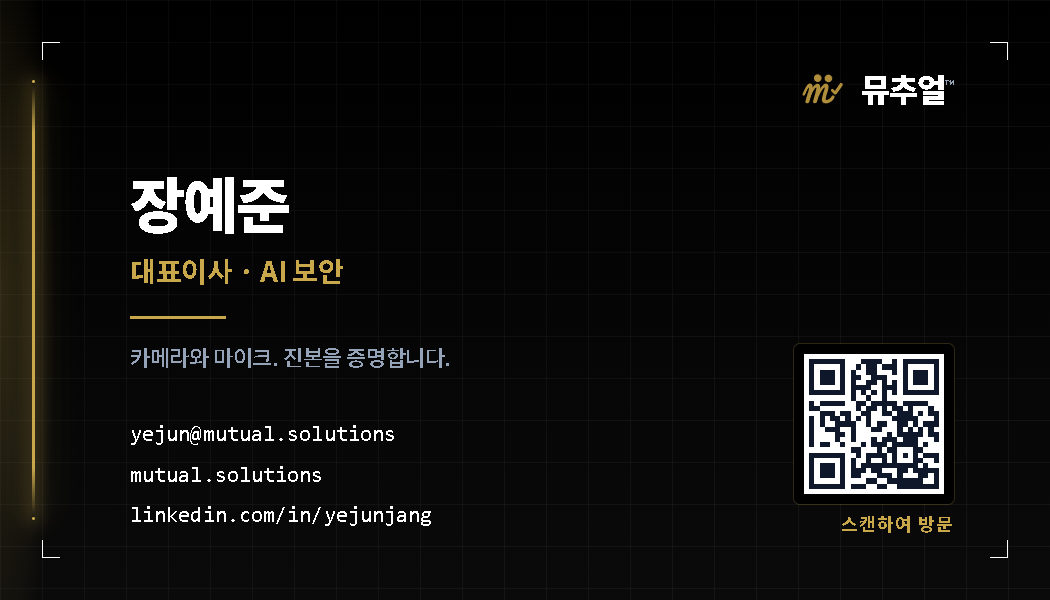
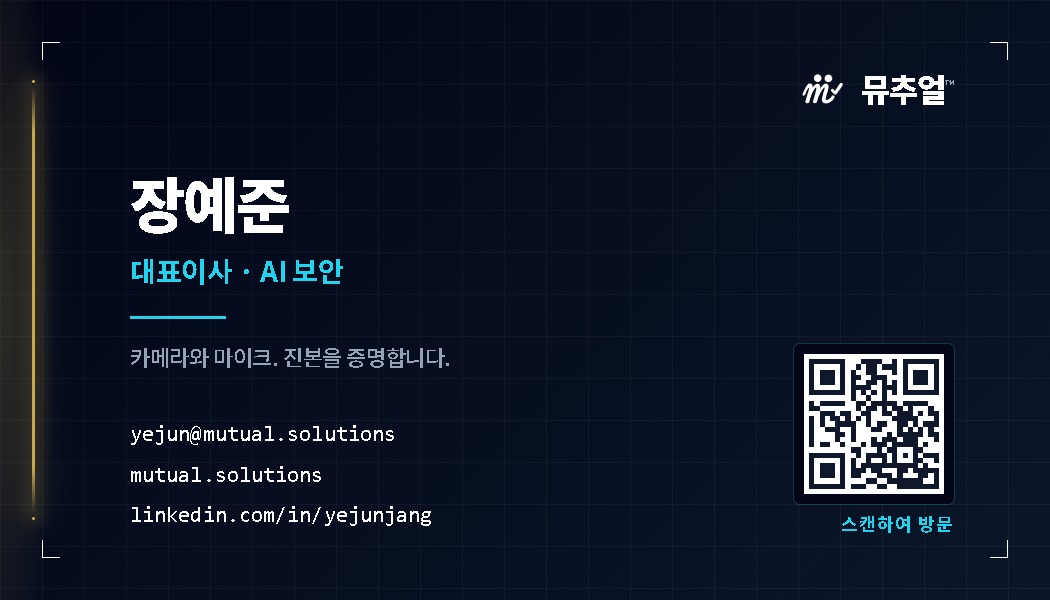
Lab Edge fek1/capture · blend more mutual.solutions cyan into FEK-1
FEK-1 was pure forensic gold on black. User asked for more of the
mutual.solutions color. Re-tuned the FEK-1 palette to lean mutual:

- bg:        #020617 → #0a1628 navy gradient (was pure black)
- accent:    #c9a84c gold → #22d3ee mutual cyan
- accentSoft #8c7332 dark gold → #4a8b9c mutual teal
- logoFile:  logo-amber → logo-white

Forensic gold (#c9a84c) is preserved ONLY for the halo edge — it stays
the FEK-1 visual signature. Everything else (titles, dividers, QR
border, badges, "SCAN TO VISIT" / "스캔하여 방문" labels, focus dots) now
uses mutual cyan/teal.

Net effect: cards read as mutual.solutions brand with a forensic
gold edge accent.

diff --git a/.canva-build/v-tech-edge-capture-back-yejun.html b/.canva-build/v-tech-edge-capture-back-yejun.html
@@ -1,10 +1,10 @@
 <!DOCTYPE html><html><head><meta charset="utf-8">
 <style>
 *{margin:0;padding:0;box-sizing:border-box}
-html,body{width:1050px;height:600px;background:#000000;font-family:'Inter','Segoe UI','SF Pro Display','Helvetica Neue',Helvetica,Arial,'Malgun Gothic','Apple SD Gothic Neo',sans-serif;color:#fff;overflow:hidden;-webkit-font-smoothing:antialiased}
-.card{position:relative;width:1050px;height:600px;background:linear-gradient(180deg,#000000 0%,#0a0a0a 100%);overflow:hidden}
+html,body{width:1050px;height:600px;background:#020617;font-family:'Inter','Segoe UI','SF Pro Display','Helvetica Neue',Helvetica,Arial,'Malgun Gothic','Apple SD Gothic Neo',sans-serif;color:#fff;overflow:hidden;-webkit-font-smoothing:antialiased}
+.card{position:relative;width:1050px;height:600px;background:linear-gradient(135deg,#020617 0%,#0a1628 100%);overflow:hidden}
 .grid{position:absolute;inset:0;background-image:linear-gradient(to right, rgba(255,255,255,0.05) 1px, transparent 1px), linear-gradient(to bottom, rgba(255,255,255,0.05) 1px, transparent 1px);background-size:42px 42px;mask-image:linear-gradient(135deg, rgba(0,0,0,0.6), rgba(0,0,0,0.95));-webkit-mask-image:linear-gradient(135deg, rgba(0,0,0,0.6), rgba(0,0,0,0.95))}
-.tick{position:absolute;width:18px;height:18px;border-color:#8c7332}
+.tick{position:absolute;width:18px;height:18px;border-color:#4a8b9c}
 .tl{top:42px;left:42px;border-top:1.5px solid;border-left:1.5px solid}
 .tr{top:42px;right:42px;border-top:1.5px solid;border-right:1.5px solid}
 .bl{bottom:42px;left:42px;border-bottom:1.5px solid;border-left:1.5px solid}
@@ -24,15 +24,15 @@ html,body{width:1050px;height:600px;background:#000000;font-family:'Inter','Sego
 
   <!-- Korean wordmark -->
   <div style="position:absolute;top:64px;right:96px;display:flex;align-items:center;gap:14px;z-index:2">
-    <img src="logo-amber.svg" style="width:48px;height:48px;object-fit:contain">
+    <img src="logo-white.svg" style="width:48px;height:48px;object-fit:contain">
     <div class="ko" style="font-weight:800;font-size:32px;letter-spacing:-1px;color:#fff">뮤추얼<span style="font-size:13px;vertical-align:super;color:#94a3b8;font-weight:500">™</span></div>
   </div>
 
   <!-- name block (Korean — mirrors the English front layout) -->
   <div style="position:absolute;top:172px;left:130px;max-width:600px;z-index:2">
     <div class="ko" style="font-weight:800;font-size:60px;letter-spacing:-1.8px;color:#fff;line-height:1">장예준</div>
-    <div class="ko" style="margin-top:18px;font-weight:600;font-size:28px;color:#c9a84c;letter-spacing:-0.4px">대표이사 · AI 보안</div>
-    <div style="margin-top:26px;width:96px;height:3px;background:#c9a84c"></div>
+    <div class="ko" style="margin-top:18px;font-weight:600;font-size:28px;color:#22d3ee;letter-spacing:-0.4px">대표이사 · AI 보안</div>
+    <div style="margin-top:26px;width:96px;height:3px;background:#22d3ee"></div>
     <div class="ko" style="margin-top:22px;font-weight:500;font-size:22px;color:#94a3b8;letter-spacing:-0.4px;line-height:1.4">카메라와 마이크. 진본을 증명합니다.</div>
   </div>
 
@@ -44,6 +44,6 @@ html,body{width:1050px;height:600px;background:#000000;font-family:'Inter','Sego
   </div>
 
   <!-- QR + Korean label -->
-  <img src="qr-yejun.svg" style="position:absolute;right:96px;bottom:96px;width:160px;height:160px;background:#000000;padding:10px;border-radius:6px;box-shadow:0 0 0 1px #c9a84c33;z-index:2">
-  <div class="ko" style="position:absolute;right:96px;bottom:64px;font-size:18px;color:#c9a84c;letter-spacing:1px;text-align:right;width:160px;font-weight:600;z-index:2">스캔하여 방문</div>
+  <img src="qr-yejun.svg" style="position:absolute;right:96px;bottom:96px;width:160px;height:160px;background:#020617;padding:10px;border-radius:6px;box-shadow:0 0 0 1px #22d3ee33;z-index:2">
+  <div class="ko" style="position:absolute;right:96px;bottom:64px;font-size:18px;color:#22d3ee;letter-spacing:1px;text-align:right;width:160px;font-weight:600;z-index:2">스캔하여 방문</div>
 </div></body></html>

diff --git a/.canva-build/v-tech-edge-fek1-back-yejun.html b/.canva-build/v-tech-edge-fek1-back-yejun.html
@@ -1,10 +1,10 @@
 <!DOCTYPE html><html><head><meta charset="utf-8">
 <style>
 *{margin:0;padding:0;box-sizing:border-box}
-html,body{width:1050px;height:600px;background:#000000;font-family:'Inter','Segoe UI','SF Pro Display','Helvetica Neue',Helvetica,Arial,'Malgun Gothic','Apple SD Gothic Neo',sans-serif;color:#fff;overflow:hidden;-webkit-font-smoothing:antialiased}
-.card{position:relative;width:1050px;height:600px;background:linear-gradient(180deg,#000000 0%,#0a0a0a 100%);overflow:hidden}
+html,body{width:1050px;height:600px;background:#020617;font-family:'Inter','Segoe UI','SF Pro Display','Helvetica Neue',Helvetica,Arial,'Malgun Gothic','Apple SD Gothic Neo',sans-serif;color:#fff;overflow:hidden;-webkit-font-smoothing:antialiased}
+.card{position:relative;width:1050px;height:600px;background:linear-gradient(135deg,#020617 0%,#0a1628 100%);overflow:hidden}
 .grid{position:absolute;inset:0;background-image:linear-gradient(to right, rgba(255,255,255,0.05) 1px, transparent 1px), linear-gradient(to bottom, rgba(255,255,255,0.05) 1px, transparent 1px);background-size:42px 42px;mask-image:linear-gradient(135deg, rgba(0,0,0,0.6), rgba(0,0,0,0.95));-webkit-mask-image:linear-gradient(135deg, rgba(0,0,0,0.6), rgba(0,0,0,0.95))}
-.tick{position:absolute;width:18px;height:18px;border-color:#8c7332}
+.tick{position:absolute;width:18px;height:18px;border-color:#4a8b9c}
 .tl{top:42px;left:42px;border-top:1.5px solid;border-left:1.5px solid}
 .tr{top:42px;right:42px;border-top:1.5px solid;border-right:1.5px solid}
 .bl{bottom:42px;left:42px;border-bottom:1.5px solid;border-left:1.5px solid}
@@ -24,15 +24,15 @@ html,body{width:1050px;height:600px;background:#000000;font-family:'Inter','Sego
 
   <!-- Korean wordmark -->
   <div style="position:absolute;top:64px;right:96px;display:flex;align-items:center;gap:14px;z-index:2">
-    <img src="logo-amber.svg" style="width:48px;height:48px;object-fit:contain">
+    <img src="logo-white.svg" style="width:48px;height:48px;object-fit:contain">
     <div class="ko" style="font-weight:800;font-size:32px;letter-spacing:-1px;color:#fff">뮤추얼<span style="font-size:13px;vertical-align:super;color:#94a3b8;font-weight:500">™</span></div>
   </div>
 
   <!-- name block (Korean — mirrors the English front layout) -->
   <div style="position:absolute;top:172px;left:130px;max-width:600px;z-index:2">
     <div class="ko" style="font-weight:800;font-size:60px;letter-spacing:-1.8px;color:#fff;line-height:1">장예준</div>
-    <div class="ko" style="margin-top:18px;font-weight:600;font-size:28px;color:#c9a84c;letter-spacing:-0.4px">대표이사 · AI 보안</div>
-    <div style="margin-top:26px;width:96px;height:3px;background:#c9a84c"></div>
+    <div class="ko" style="margin-top:18px;font-weight:600;font-size:28px;color:#22d3ee;letter-spacing:-0.4px">대표이사 · AI 보안</div>
+    <div style="margin-top:26px;width:96px;height:3px;background:#22d3ee"></div>
     <div class="ko" style="margin-top:22px;font-weight:500;font-size:22px;color:#94a3b8;letter-spacing:-0.4px;line-height:1.4">카메라와 마이크. 진본을 증명합니다.</div>
   </div>
 
@@ -44,6 +44,6 @@ html,body{width:1050px;height:600px;background:#000000;font-family:'Inter','Sego
   </div>
 
   <!-- QR + Korean label -->
-  <img src="qr-yejun.svg" style="position:absolute;right:96px;bottom:96px;width:160px;height:160px;background:#000000;padding:10px;border-radius:6px;box-shadow:0 0 0 1px #c9a84c33;z-index:2">
-  <div class="ko" style="position:absolute;right:96px;bottom:64px;font-size:18px;color:#c9a84c;letter-spacing:1px;text-align:right;width:160px;font-weight:600;z-index:2">스캔하여 방문</div>
+  <img src="qr-yejun.svg" style="position:absolute;right:96px;bottom:96px;width:160px;height:160px;background:#020617;padding:10px;border-radius:6px;box-shadow:0 0 0 1px #22d3ee33;z-index:2">
+  <div class="ko" style="position:absolute;right:96px;bottom:64px;font-size:18px;color:#22d3ee;letter-spacing:1px;text-align:right;width:160px;font-weight:600;z-index:2">스캔하여 방문</div>
 </div></body></html>

diff --git a/.canva-build/v-tech-edge-capture-front-yejun.html b/.canva-build/v-tech-edge-capture-front-yejun.html
@@ -1,10 +1,10 @@
 <!DOCTYPE html><html><head><meta charset="utf-8">
 <style>
 *{margin:0;padding:0;box-sizing:border-box}
-html,body{width:1050px;height:600px;background:#000000;font-family:'Inter','Segoe UI','SF Pro Display','Helvetica Neue',Helvetica,Arial,'Malgun Gothic','Apple SD Gothic Neo',sans-serif;color:#fff;overflow:hidden;-webkit-font-smoothing:antialiased}
-.card{position:relative;width:1050px;height:600px;background:linear-gradient(180deg,#000000 0%,#0a0a0a 100%);overflow:hidden}
+html,body{width:1050px;height:600px;background:#020617;font-family:'Inter','Segoe UI','SF Pro Display','Helvetica Neue',Helvetica,Arial,'Malgun Gothic','Apple SD Gothic Neo',sans-serif;color:#fff;overflow:hidden;-webkit-font-smoothing:antialiased}
+.card{position:relative;width:1050px;height:600px;background:linear-gradient(135deg,#020617 0%,#0a1628 100%);overflow:hidden}
 .grid{position:absolute;inset:0;background-image:linear-gradient(to right, rgba(255,255,255,0.05) 1px, transparent 1px), linear-gradient(to bottom, rgba(255,255,255,0.05) 1px, transparent 1px);background-size:42px 42px;mask-image:linear-gradient(135deg, rgba(0,0,0,0.6), rgba(0,0,0,0.95));-webkit-mask-image:linear-gradient(135deg, rgba(0,0,0,0.6), rgba(0,0,0,0.95))}
-.tick{position:absolute;width:18px;height:18px;border-color:#8c7332}
+.tick{position:absolute;width:18px;height:18px;border-color:#4a8b9c}
 .tl{top:42px;left:42px;border-top:1.5px solid;border-left:1.5px solid}
 .tr{top:42px;right:42px;border-top:1.5px solid;border-right:1.5px solid}
 .bl{bottom:42px;left:42px;border-bottom:1.5px solid;border-left:1.5px solid}
@@ -24,15 +24,15 @@ html,body{width:1050px;height:600px;background:#000000;font-family:'Inter','Sego
 
   <!-- mutual wordmark (top-right) -->
   <div style="position:absolute;top:64px;right:96px;display:flex;align-items:center;gap:14px;z-index:2">
-    <img src="logo-amber.svg" style="width:48px;height:48px;object-fit:contain">
+    <img src="logo-white.svg" style="width:48px;height:48px;object-fit:contain">
     <div style="font-weight:800;font-size:32px;letter-spacing:-0.8px;color:#fff">mutual<span style="font-size:13px;vertical-align:super;color:#94a3b8;font-weight:500">™</span></div>
   </div>
 
   <!-- name block (English) -->
   <div style="position:absolute;top:172px;left:130px;max-width:600px;z-index:2">
     <div style="font-weight:800;font-size:60px;letter-spacing:-1.8px;color:#fff;line-height:1">Yejun Jang</div>
-    <div style="margin-top:18px;font-weight:600;font-size:28px;color:#c9a84c;letter-spacing:-0.3px">CEO · AI & Security</div>
-    <div style="margin-top:26px;width:96px;height:3px;background:#c9a84c"></div>
+    <div style="margin-top:18px;font-weight:600;font-size:28px;color:#22d3ee;letter-spacing:-0.3px">CEO · AI & Security</div>
+    <div style="margin-top:26px;width:96px;height:3px;background:#22d3ee"></div>
     <div style="margin-top:22px;font-weight:500;font-size:22px;color:#94a3b8;letter-spacing:-0.2px;line-height:1.4;font-family:'Playfair Display','Georgia','Times New Roman',serif;">Cameras and mics. Proven real.</div>
   </div>
 
@@ -44,7 +44,7 @@ html,body{width:1050px;height:600px;background:#000000;font-family:'Inter','Sego
   </div>
 
   <!-- QR + English label -->
-  <img src="qr-yejun.svg" style="position:absolute;right:96px;bottom:96px;width:160px;height:160px;background:#000000;padding:10px;border-radius:6px;box-shadow:0 0 0 1px #c9a84c33;z-index:2">
-  <div class="mono" style="position:absolute;right:96px;bottom:64px;font-size:18px;color:#c9a84c;letter-spacing:1px;text-align:right;width:160px;font-weight:600;z-index:2">SCAN TO VISIT</div>
+  <img src="qr-yejun.svg" style="position:absolute;right:96px;bottom:96px;width:160px;height:160px;background:#020617;padding:10px;border-radius:6px;box-shadow:0 0 0 1px #22d3ee33;z-index:2">
+  <div class="mono" style="position:absolute;right:96px;bottom:64px;font-size:18px;color:#22d3ee;letter-spacing:1px;text-align:right;width:160px;font-weight:600;z-index:2">SCAN TO VISIT</div>
   
 </div></body></html>

diff --git a/.canva-build/v-tech-edge-fek1-front-yejun.html b/.canva-build/v-tech-edge-fek1-front-yejun.html
@@ -1,10 +1,10 @@
 <!DOCTYPE html><html><head><meta charset="utf-8">
 <style>
 *{margin:0;padding:0;box-sizing:border-box}
-html,body{width:1050px;height:600px;background:#000000;font-family:'Inter','Segoe UI','SF Pro Display','Helvetica Neue',Helvetica,Arial,'Malgun Gothic','Apple SD Gothic Neo',sans-serif;color:#fff;overflow:hidden;-webkit-font-smoothing:antialiased}
-.card{position:relative;width:1050px;height:600px;background:linear-gradient(180deg,#000000 0%,#0a0a0a 100%);overflow:hidden}
+html,body{width:1050px;height:600px;background:#020617;font-family:'Inter','Segoe UI','SF Pro Display','Helvetica Neue',Helvetica,Arial,'Malgun Gothic','Apple SD Gothic Neo',sans-serif;color:#fff;overflow:hidden;-webkit-font-smoothing:antialiased}
+.card{position:relative;width:1050px;height:600px;background:linear-gradient(135deg,#020617 0%,#0a1628 100%);overflow:hidden}
 .grid{position:absolute;inset:0;background-image:linear-gradient(to right, rgba(255,255,255,0.05) 1px, transparent 1px), linear-gradient(to bottom, rgba(255,255,255,0.05) 1px, transparent 1px);background-size:42px 42px;mask-image:linear-gradient(135deg, rgba(0,0,0,0.6), rgba(0,0,0,0.95));-webkit-mask-image:linear-gradient(135deg, rgba(0,0,0,0.6), rgba(0,0,0,0.95))}
-.tick{position:absolute;width:18px;height:18px;border-color:#8c7332}
+.tick{position:absolute;width:18px;height:18px;border-color:#4a8b9c}
 .tl{top:42px;left:42px;border-top:1.5px solid;border-left:1.5px solid}
 .tr{top:42px;right:42px;border-top:1.5px solid;border-right:1.5px solid}
 .bl{bottom:42px;left:42px;border-bottom:1.5px solid;border-left:1.5px solid}
@@ -24,15 +24,15 @@ html,body{width:1050px;height:600px;background:#000000;font-family:'Inter','Sego
 
   <!-- mutual wordmark (top-right) -->
   <div style="position:absolute;top:64px;right:96px;display:flex;align-items:center;gap:14px;z-index:2">
-    <img src="logo-amber.svg" style="width:48px;height:48px;object-fit:contain">
+    <img src="logo-white.svg" style="width:48px;height:48px;object-fit:contain">
     <div style="font-weight:800;font-size:32px;letter-spacing:-0.8px;color:#fff">mutual<span style="font-size:13px;vertical-align:super;color:#94a3b8;font-weight:500">™</span></div>
   </div>
 
   <!-- name block (English) -->
   <div style="position:absolute;top:172px;left:130px;max-width:600px;z-index:2">
     <div style="font-weight:800;font-size:60px;letter-spacing:-1.8px;color:#fff;line-height:1">Yejun Jang</div>
-    <div style="margin-top:18px;font-weight:600;font-size:28px;color:#c9a84c;letter-spacing:-0.3px">CEO · AI & Security</div>
-    <div style="margin-top:26px;width:96px;height:3px;background:#c9a84c"></div>
+    <div style="margin-top:18px;font-weight:600;font-size:28px;color:#22d3ee;letter-spacing:-0.3px">CEO · AI & Security</div>
+    <div style="margin-top:26px;width:96px;height:3px;background:#22d3ee"></div>
     <div style="margin-top:22px;font-weight:500;font-size:22px;color:#94a3b8;letter-spacing:-0.2px;line-height:1.4;font-family:'Playfair Display','Georgia','Times New Roman',serif;">Cameras and mics. Proven real.</div>
   </div>
 
@@ -44,7 +44,7 @@ html,body{width:1050px;height:600px;background:#000000;font-family:'Inter','Sego
   </div>
 
   <!-- QR + English label -->
-  <img src="qr-yejun.svg" style="position:absolute;right:96px;bottom:96px;width:160px;height:160px;background:#000000;padding:10px;border-radius:6px;box-shadow:0 0 0 1px #c9a84c33;z-index:2">
-  <div class="mono" style="position:absolute;right:96px;bottom:64px;font-size:18px;color:#c9a84c;letter-spacing:1px;text-align:right;width:160px;font-weight:600;z-index:2">SCAN TO VISIT</div>
+  <img src="qr-yejun.svg" style="position:absolute;right:96px;bottom:96px;width:160px;height:160px;background:#020617;padding:10px;border-radius:6px;box-shadow:0 0 0 1px #22d3ee33;z-index:2">
+  <div class="mono" style="position:absolute;right:96px;bottom:64px;font-size:18px;color:#22d3ee;letter-spacing:1px;text-align:right;width:160px;font-weight:600;z-index:2">SCAN TO VISIT</div>
   
 </div></body></html>

diff --git a/.canva-build/v-tech-edge-capture-back-alex.html b/.canva-build/v-tech-edge-capture-back-alex.html
@@ -1,10 +1,10 @@
 <!DOCTYPE html><html><head><meta charset="utf-8">
 <style>
 *{margin:0;padding:0;box-sizing:border-box}
-html,body{width:1050px;height:600px;background:#000000;font-family:'Inter','Segoe UI','SF Pro Display','Helvetica Neue',Helvetica,Arial,'Malgun Gothic','Apple SD Gothic Neo',sans-serif;color:#fff;overflow:hidden;-webkit-font-smoothing:antialiased}
-.card{position:relative;width:1050px;height:600px;background:linear-gradient(180deg,#000000 0%,#0a0a0a 100%);overflow:hidden}
+html,body{width:1050px;height:600px;background:#020617;font-family:'Inter','Segoe UI','SF Pro Display','Helvetica Neue',Helvetica,Arial,'Malgun Gothic','Apple SD Gothic Neo',sans-serif;color:#fff;overflow:hidden;-webkit-font-smoothing:antialiased}
+.card{position:relative;width:1050px;height:600px;background:linear-gradient(135deg,#020617 0%,#0a1628 100%);overflow:hidden}
 .grid{position:absolute;inset:0;background-image:linear-gradient(to right, rgba(255,255,255,0.05) 1px, transparent 1px), linear-gradient(to bottom, rgba(255,255,255,0.05) 1px, transparent 1px);background-size:42px 42px;mask-image:linear-gradient(135deg, rgba(0,0,0,0.6), rgba(0,0,0,0.95));-webkit-mask-image:linear-gradient(135deg, rgba(0,0,0,0.6), rgba(0,0,0,0.95))}
-.tick{position:absolute;width:18px;height:18px;border-color:#8c7332}
+.tick{position:absolute;width:18px;height:18px;border-color:#4a8b9c}
 .tl{top:42px;left:42px;border-top:1.5px solid;border-left:1.5px solid}
 .tr{top:42px;right:42px;border-top:1.5px solid;border-right:1.5px solid}
 .bl{bottom:42px;left:42px;border-bottom:1.5px solid;border-left:1.5px solid}
@@ -31,8 +31,8 @@ html,body{width:1050px;height:600px;background:#000000;font-family:'Inter','Sego
   <!-- name block (Korean — mirrors the English front layout) -->
   <div style="position:absolute;top:172px;left:130px;max-width:600px;z-index:2">
     <div class="ko" style="font-weight:800;font-size:60px;letter-spacing:-1.8px;color:#fff;line-height:1">박지훈</div>
-    <div class="ko" style="margin-top:18px;font-weight:600;font-size:28px;color:#c9a84c;letter-spacing:-0.4px">최고기술책임자 · 하드웨어</div>
-    <div style="margin-top:26px;width:96px;height:3px;background:#c9a84c"></div>
+    <div class="ko" style="margin-top:18px;font-weight:600;font-size:28px;color:#22d3ee;letter-spacing:-0.4px">최고기술책임자 · 하드웨어</div>
+    <div style="margin-top:26px;width:96px;height:3px;background:#22d3ee"></div>
     <div class="ko" style="margin-top:22px;font-weight:500;font-size:22px;color:#94a3b8;letter-spacing:-0.4px;line-height:1.4">카메라와 마이크. 진본을 증명합니다.</div>
   </div>
 
@@ -44,6 +44,6 @@ html,body{width:1050px;height:600px;background:#000000;font-family:'Inter','Sego
   </div>
 
   <!-- QR + Korean label -->
-  <img src="qr-alex.svg" style="position:absolute;right:96px;bottom:96px;width:160px;height:160px;background:#000000;padding:10px;border-radius:6px;box-shadow:0 0 0 1px #c9a84c33;z-index:2">
-  <div class="ko" style="position:absolute;right:96px;bottom:64px;font-size:18px;color:#c9a84c;letter-spacing:1px;text-align:right;width:160px;font-weight:600;z-index:2">스캔하여 방문</div>
+  <img src="qr-alex.svg" style="position:absolute;right:96px;bottom:96px;width:160px;height:160px;background:#020617;padding:10px;border-radius:6px;box-shadow:0 0 0 1px #22d3ee33;z-index:2">
+  <div class="ko" style="position:absolute;right:96px;bottom:64px;font-size:18px;color:#22d3ee;letter-spacing:1px;text-align:right;width:160px;font-weight:600;z-index:2">스캔하여 방문</div>
 </div></body></html>

diff --git a/.canva-build/v-tech-edge-fek1-back-alex.html b/.canva-build/v-tech-edge-fek1-back-alex.html
@@ -1,10 +1,10 @@
 <!DOCTYPE html><html><head><meta charset="utf-8">
 <style>
 *{margin:0;padding:0;box-sizing:border-box}
-html,body{width:1050px;height:600px;background:#000000;font-family:'Inter','Segoe UI','SF Pro Display','Helvetica Neue',Helvetica,Arial,'Malgun Gothic','Apple SD Gothic Neo',sans-serif;color:#fff;overflow:hidden;-webkit-font-smoothing:antialiased}
-.card{position:relative;width:1050px;height:600px;background:linear-gradient(180deg,#000000 0%,#0a0a0a 100%);overflow:hidden}
+html,body{width:1050px;height:600px;background:#020617;font-family:'Inter','Segoe UI','SF Pro Display','Helvetica Neue',Helvetica,Arial,'Malgun Gothic','Apple SD Gothic Neo',sans-serif;color:#fff;overflow:hidden;-webkit-font-smoothing:antialiased}
+.card{position:relative;width:1050px;height:600px;background:linear-gradient(135deg,#020617 0%,#0a1628 100%);overflow:hidden}
 .grid{position:absolute;inset:0;background-image:linear-gradient(to right, rgba(255,255,255,0.05) 1px, transparent 1px), linear-gradient(to bottom, rgba(255,255,255,0.05) 1px, transparent 1px);background-size:42px 42px;mask-image:linear-gradient(135deg, rgba(0,0,0,0.6), rgba(0,0,0,0.95));-webkit-mask-image:linear-gradient(135deg, rgba(0,0,0,0.6), rgba(0,0,0,0.95))}
-.tick{position:absolute;width:18px;height:18px;border-color:#8c7332}
+.tick{position:absolute;width:18px;height:18px;border-color:#4a8b9c}
 .tl{top:42px;left:42px;border-top:1.5px solid;border-left:1.5px solid}
 .tr{top:42px;right:42px;border-top:1.5px solid;border-right:1.5px solid}
 .bl{bottom:42px;left:42px;border-bottom:1.5px solid;border-left:1.5px solid}
@@ -31,8 +31,8 @@ html,body{width:1050px;height:600px;background:#000000;font-family:'Inter','Sego
   <!-- name block (Korean — mirrors the English front layout) -->
   <div style="position:absolute;top:172px;left:130px;max-width:600px;z-index:2">
     <div class="ko" style="font-weight:800;font-size:60px;letter-spacing:-1.8px;color:#fff;line-height:1">박지훈</div>
-    <div class="ko" style="margin-top:18px;font-weight:600;font-size:28px;color:#c9a84c;letter-spacing:-0.4px">최고기술책임자 · 하드웨어</div>
-    <div style="margin-top:26px;width:96px;height:3px;background:#c9a84c"></div>
+    <div class="ko" style="margin-top:18px;font-weight:600;font-size:28px;color:#22d3ee;letter-spacing:-0.4px">최고기술책임자 · 하드웨어</div>
+    <div style="margin-top:26px;width:96px;height:3px;background:#22d3ee"></div>
     <div class="ko" style="margin-top:22px;font-weight:500;font-size:22px;color:#94a3b8;letter-spacing:-0.4px;line-height:1.4">카메라와 마이크. 진본을 증명합니다.</div>
   </div>
 
@@ -44,6 +44,6 @@ html,body{width:1050px;height:600px;background:#000000;font-family:'Inter','Sego
   </div>
 
   <!-- QR + Korean label -->
-  <img src="qr-alex.svg" style="position:absolute;right:96px;bottom:96px;width:160px;height:160px;background:#000000;padding:10px;border-radius:6px;box-shadow:0 0 0 1px #c9a84c33;z-index:2">
-  <div class="ko" style="position:absolute;right:96px;bottom:64px;font-size:18px;color:#c9a84c;letter-spacing:1px;text-align:right;width:160px;font-weight:600;z-index:2">스캔하여 방문</div>
+  <img src="qr-alex.svg" style="position:absolute;right:96px;bottom:96px;width:160px;height:160px;background:#020617;padding:10px;border-radius:6px;box-shadow:0 0 0 1px #22d3ee33;z-index:2">
+  <div class="ko" style="position:absolute;right:96px;bottom:64px;font-size:18px;color:#22d3ee;letter-spacing:1px;text-align:right;width:160px;font-weight:600;z-index:2">스캔하여 방문</div>
 </div></body></html>

diff --git a/.canva-build/v-tech-edge-capture-front-alex.html b/.canva-build/v-tech-edge-capture-front-alex.html
@@ -1,10 +1,10 @@
 <!DOCTYPE html><html><head><meta charset="utf-8">
 <style>
 *{margin:0;padding:0;box-sizing:border-box}
-html,body{width:1050px;height:600px;background:#000000;font-family:'Inter','Segoe UI','SF Pro Display','Helvetica Neue',Helvetica,Arial,'Malgun Gothic','Apple SD Gothic Neo',sans-serif;color:#fff;overflow:hidden;-webkit-font-smoothing:antialiased}
-.card{position:relative;width:1050px;height:600px;background:linear-gradient(180deg,#000000 0%,#0a0a0a 100%);overflow:hidden}
+html,body{width:1050px;height:600px;background:#020617;font-family:'Inter','Segoe UI','SF Pro Display','Helvetica Neue',Helvetica,Arial,'Malgun Gothic','Apple SD Gothic Neo',sans-serif;color:#fff;overflow:hidden;-webkit-font-smoothing:antialiased}
+.card{position:relative;width:1050px;height:600px;background:linear-gradient(135deg,#020617 0%,#0a1628 100%);overflow:hidden}
 .grid{position:absolute;inset:0;background-image:linear-gradient(to right, rgba(255,255,255,0.05) 1px, transparent 1px), linear-gradient(to bottom, rgba(255,255,255,0.05) 1px, transparent 1px);background-size:42px 42px;mask-image:linear-gradient(135deg, rgba(0,0,0,0.6), rgba(0,0,0,0.95));-webkit-mask-image:linear-gradient(135deg, rgba(0,0,0,0.6), rgba(0,0,0,0.95))}
-.tick{position:absolute;width:18px;height:18px;border-color:#8c7332}
+.tick{position:absolute;width:18px;height:18px;border-color:#4a8b9c}
 .tl{top:42px;left:42px;border-top:1.5px solid;border-left:1.5px solid}
 .tr{top:42px;right:42px;border-top:1.5px solid;border-right:1.5px solid}
 .bl{bottom:42px;left:42px;border-bottom:1.5px solid;border-left:1.5px solid}
@@ -31,8 +31,8 @@ html,body{width:1050px;height:600px;background:#000000;font-family:'Inter','Sego
   <!-- name block (English) -->
   <div style="position:absolute;top:172px;left:130px;max-width:600px;z-index:2">
     <div style="font-weight:800;font-size:60px;letter-spacing:-1.8px;color:#fff;line-height:1">Jihoon (Alex) Park</div>
-    <div style="margin-top:18px;font-weight:600;font-size:28px;color:#c9a84c;letter-spacing:-0.3px">CTO · Hardware</div>
-    <div style="margin-top:26px;width:96px;height:3px;background:#c9a84c"></div>
+    <div style="margin-top:18px;font-weight:600;font-size:28px;color:#22d3ee;letter-spacing:-0.3px">CTO · Hardware</div>
+    <div style="margin-top:26px;width:96px;height:3px;background:#22d3ee"></div>
     <div style="margin-top:22px;font-weight:500;font-size:22px;color:#94a3b8;letter-spacing:-0.2px;line-height:1.4;font-family:'Playfair Display','Georgia','Times New Roman',serif;">Cameras and mics. Proven real.</div>
   </div>
 
@@ -44,7 +44,7 @@ html,body{width:1050px;height:600px;background:#000000;font-family:'Inter','Sego
   </div>
 
   <!-- QR + English label -->
-  <img src="qr-alex.svg" style="position:absolute;right:96px;bottom:96px;width:160px;height:160px;background:#000000;padding:10px;border-radius:6px;box-shadow:0 0 0 1px #c9a84c33;z-index:2">
-  <div class="mono" style="position:absolute;right:96px;bottom:64px;font-size:18px;color:#c9a84c;letter-spacing:1px;text-align:right;width:160px;font-weight:600;z-index:2">SCAN TO VISIT</div>
+  <img src="qr-alex.svg" style="position:absolute;right:96px;bottom:96px;width:160px;height:160px;background:#020617;padding:10px;border-radius:6px;box-shadow:0 0 0 1px #22d3ee33;z-index:2">
+  <div class="mono" style="position:absolute;right:96px;bottom:64px;font-size:18px;color:#22d3ee;letter-spacing:1px;text-align:right;width:160px;font-weight:600;z-index:2">SCAN TO VISIT</div>
   
 </div></body></html>

diff --git a/.canva-build/v-tech-edge-fek1-front-alex.html b/.canva-build/v-tech-edge-fek1-front-alex.html
@@ -1,10 +1,10 @@
 <!DOCTYPE html><html><head><meta charset="utf-8">
 <style>
 *{margin:0;padding:0;box-sizing:border-box}
-html,body{width:1050px;height:600px;background:#000000;font-family:'Inter','Segoe UI','SF Pro Display','Helvetica Neue',Helvetica,Arial,'Malgun Gothic','Apple SD Gothic Neo',sans-serif;color:#fff;overflow:hidden;-webkit-font-smoothing:antialiased}
-.card{position:relative;width:1050px;height:600px;background:linear-gradient(180deg,#000000 0%,#0a0a0a 100%);overflow:hidden}
+html,body{width:1050px;height:600px;background:#020617;font-family:'Inter','Segoe UI','SF Pro Display','Helvetica Neue',Helvetica,Arial,'Malgun Gothic','Apple SD Gothic Neo',sans-serif;color:#fff;overflow:hidden;-webkit-font-smoothing:antialiased}
+.card{position:relative;width:1050px;height:600px;background:linear-gradient(135deg,#020617 0%,#0a1628 100%);overflow:hidden}
 .grid{position:absolute;inset:0;background-image:linear-gradient(to right, rgba(255,255,255,0.05) 1px, transparent 1px), linear-gradient(to bottom, rgba(255,255,255,0.05) 1px, transparent 1px);background-size:42px 42px;mask-image:linear-gradient(135deg, rgba(0,0,0,0.6), rgba(0,0,0,0.95));-webkit-mask-image:linear-gradient(135deg, rgba(0,0,0,0.6), rgba(0,0,0,0.95))}
-.tick{position:absolute;width:18px;height:18px;border-color:#8c7332}
+.tick{position:absolute;width:18px;height:18px;border-color:#4a8b9c}
 .tl{top:42px;left:42px;border-top:1.5px solid;border-left:1.5px solid}
 .tr{top:42px;right:42px;border-top:1.5px solid;border-right:1.5px solid}
 .bl{bottom:42px;left:42px;border-bottom:1.5px solid;border-left:1.5px solid}
@@ -31,8 +31,8 @@ html,body{width:1050px;height:600px;background:#000000;font-family:'Inter','Sego
   <!-- name block (English) -->
   <div style="position:absolute;top:172px;left:130px;max-width:600px;z-index:2">
     <div style="font-weight:800;font-size:60px;letter-spacing:-1.8px;color:#fff;line-height:1">Jihoon (Alex) Park</div>
-    <div style="margin-top:18px;font-weight:600;font-size:28px;color:#c9a84c;letter-spacing:-0.3px">CTO · Hardware</div>
-    <div style="margin-top:26px;width:96px;height:3px;background:#c9a84c"></div>
+    <div style="margin-top:18px;font-weight:600;font-size:28px;color:#22d3ee;letter-spacing:-0.3px">CTO · Hardware</div>
+    <div style="margin-top:26px;width:96px;height:3px;background:#22d3ee"></div>
     <div style="margin-top:22px;font-weight:500;font-size:22px;color:#94a3b8;letter-spacing:-0.2px;line-height:1.4;font-family:'Playfair Display','Georgia','Times New Roman',serif;">Cameras and mics. Proven real.</div>
   </div>
 
@@ -44,7 +44,7 @@ html,body{width:1050px;height:600px;background:#000000;font-family:'Inter','Sego
   </div>
 
   <!-- QR + English label -->
-  <img src="qr-alex.svg" style="position:absolute;right:96px;bottom:96px;width:160px;height:160px;background:#000000;padding:10px;border-radius:6px;box-shadow:0 0 0 1px #c9a84c33;z-index:2">
-  <div class="mono" style="position:absolute;right:96px;bottom:64px;font-size:18px;color:#c9a84c;letter-spacing:1px;text-align:right;width:160px;font-weight:600;z-index:2">SCAN TO VISIT</div>
+  <img src="qr-alex.svg" style="position:absolute;right:96px;bottom:96px;width:160px;height:160px;background:#020617;padding:10px;border-radius:6px;box-shadow:0 0 0 1px #22d3ee33;z-index:2">
+  <div class="mono" style="position:absolute;right:96px;bottom:64px;font-size:18px;color:#22d3ee;letter-spacing:1px;text-align:right;width:160px;font-weight:600;z-index:2">SCAN TO VISIT</div>
   
 </div></body></html>
